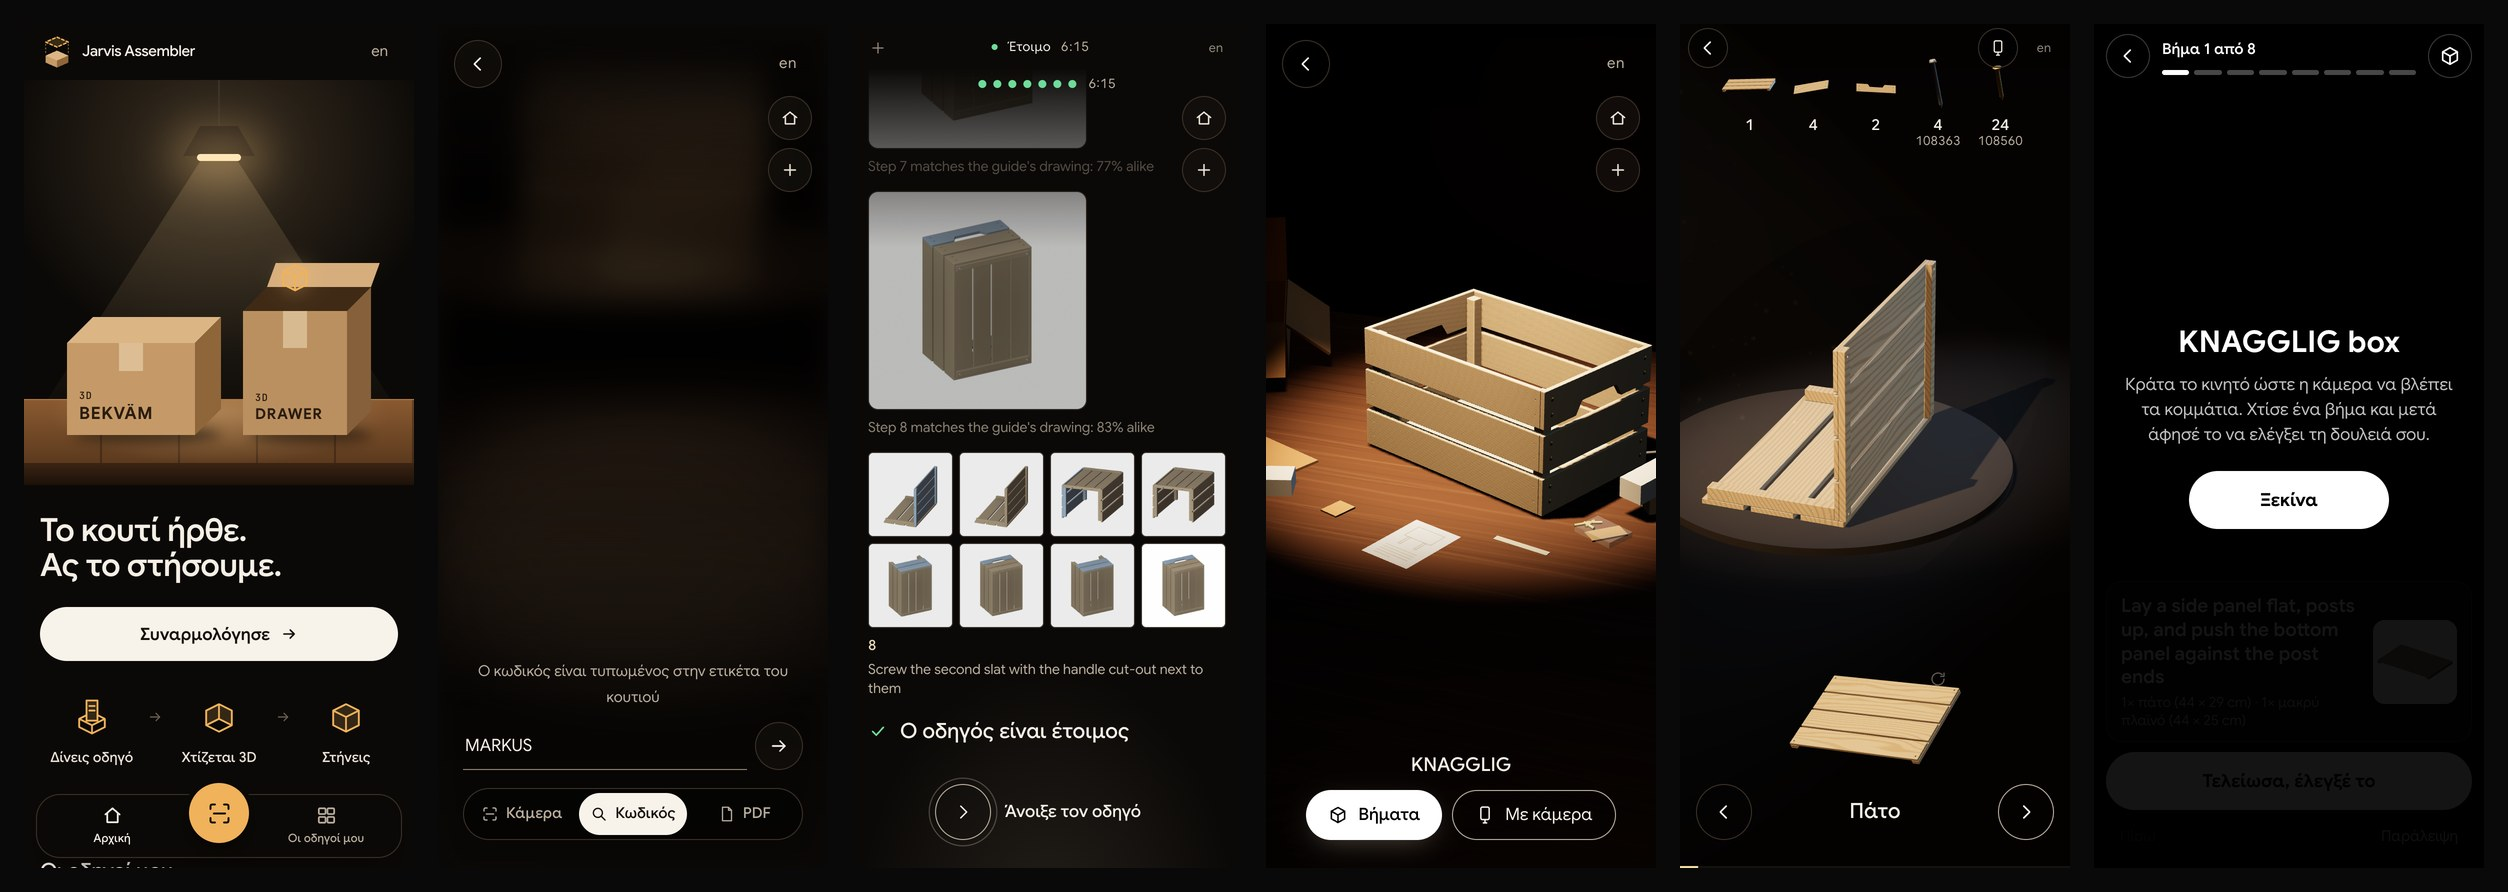
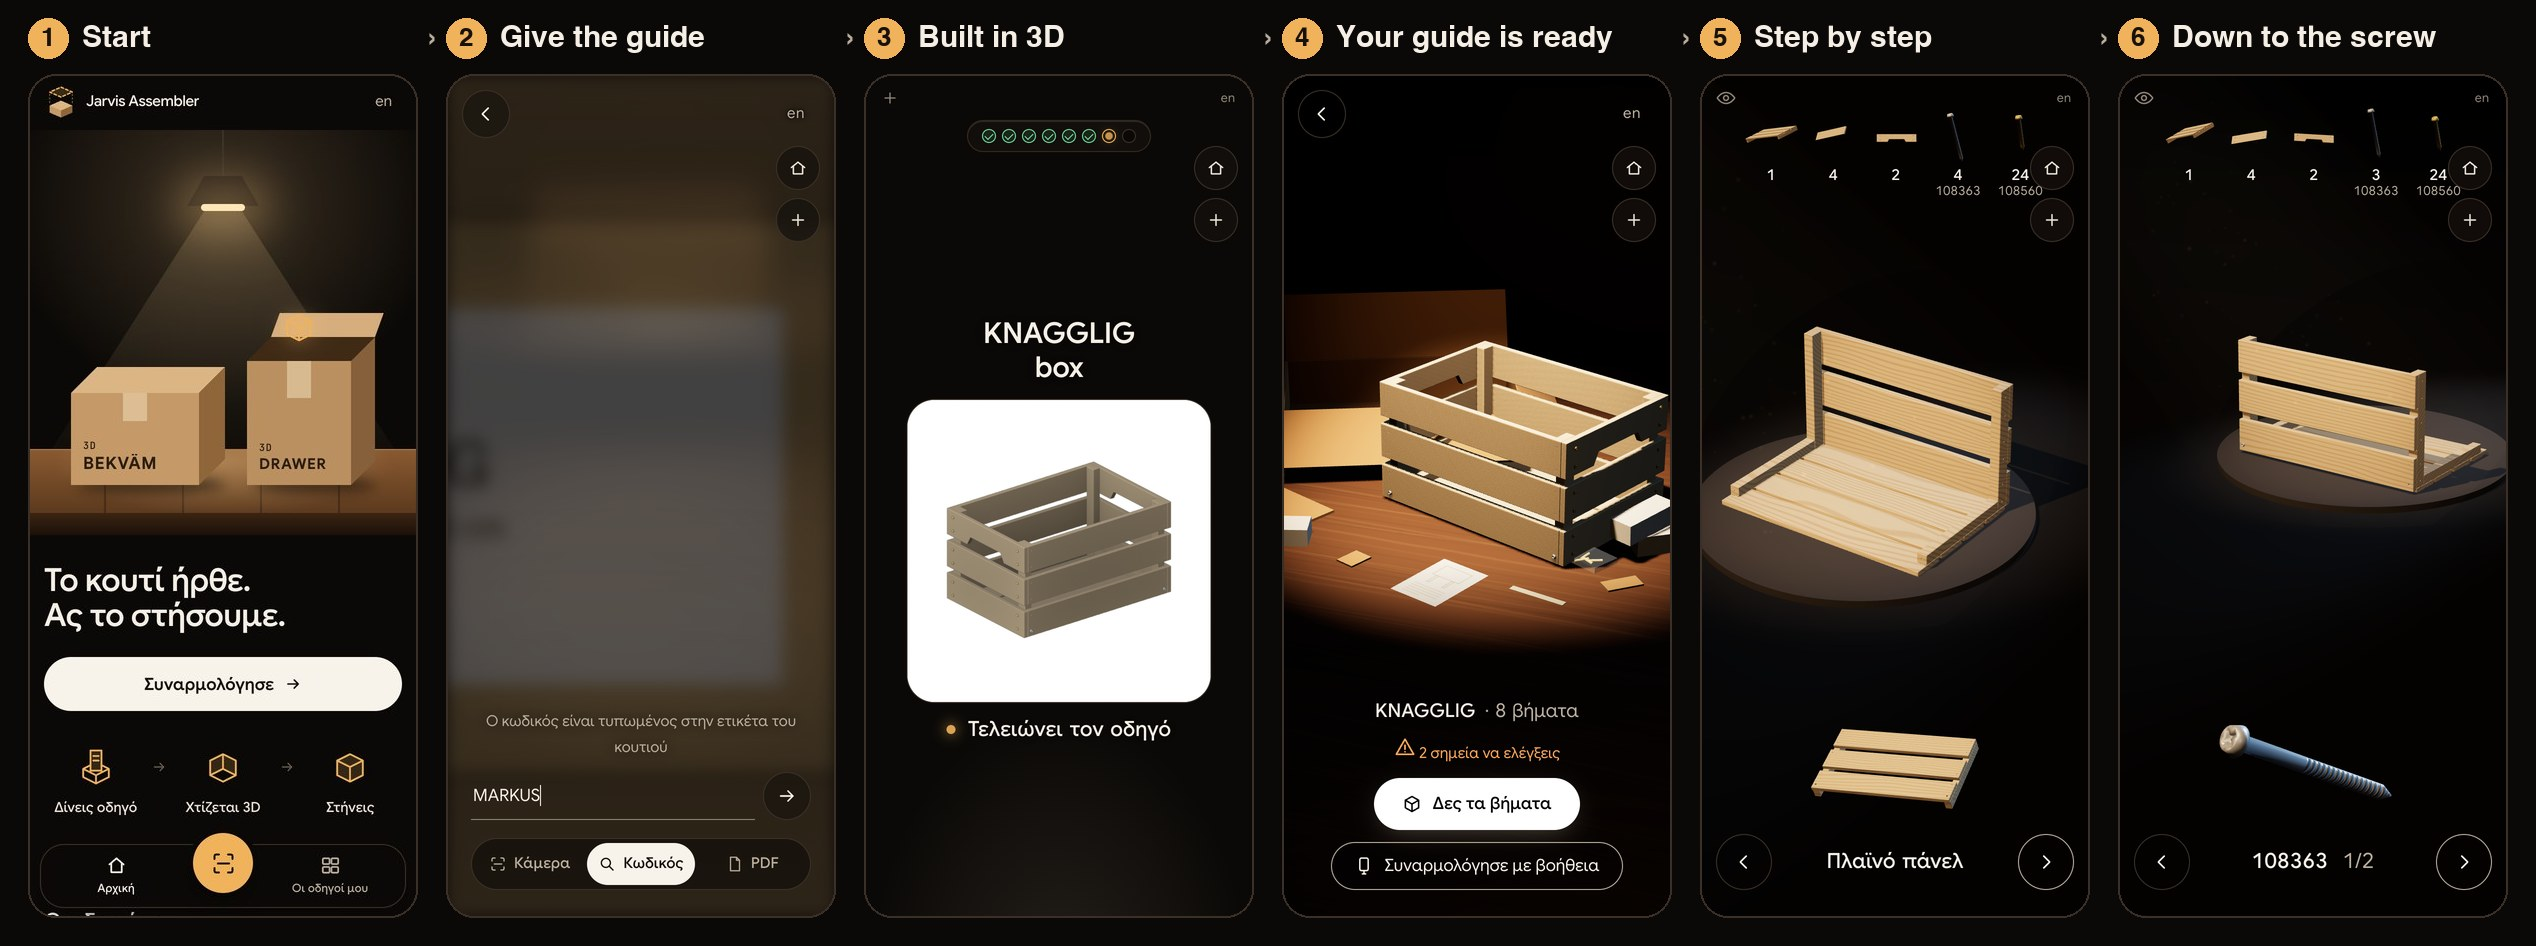
README phone strip: six numbered screens in order, from start to a single screw

diff --git a/docs/PROGRESS.md b/docs/PROGRESS.md
@@ -384,3 +384,4 @@ Append one line per update, newest at the bottom of **your own** log only: `Sat 
 - Sun 16:14 · README graphic redrawn (data owner) · at the user's request `docs/img/steps.svg` is a flow line with light running along it, not a grid of cards: steps 1 to 4 in a row, then the line splits with an "OR" into phone (5) and headset (6). "Gemini Decisions API" is now named in steps 4, 5 and 6 (`gemini-decision-1`). Seen as one still frame in headless Chrome; the movement not seen on github.com
 - Sun 16:18 · README graphic, new look (data owner) · at the user's request `docs/img/steps.svg` is drawn like a page of a paper assembly guide: cream paper, black ruled panels, big step numbers, line drawings that draw themselves, vendor logos in black. Same six steps and the same technologies as before, phone (5) and headset (6) side by side with "or". The real `ask_guide` call is open by default. Seen as a still in headless Chrome, not on github.com
 - Sun 16:19 · README: who it is for, the problem, our solution (data owner) · three short paragraphs under the URL, for items 3 to 5 of the organisers' submission list. "Warns you before the mistake" is the aim of the product; `docs/SUBMISSION.md` says a wrong part and a part the wrong way round are not yet proven on real headset frames
+- Sun 16:27 · README phone strip, numbered (data owner) · at the user's request rebuilt `docs/img/phone-flow.jpg`, which A had retaken at 16:5x (`7dd324a`): six screens with a number and a title over each (Start, Give the guide, Built in 3D, Your guide is ready, Step by step, Down to the screw). Screen 1 is A's home screen cut from A's strip; 2 to 6 are from my headless run of the KNAGGLIG guide. Dropped from A's strip: the build feed screen and the live start screen, replaced by the 3D part screen and a step with a screw

diff --git a/README.md b/README.md
@@ -17,7 +17,7 @@ You need three hours to build one drawer, because the guide is all drawings and 
 
 Give it one of four things: the code on the box, a photo of the box, the product name, or the PDF guide. An AI agent rebuilds the furniture in 3D, one move at a time, so you can see what you are building before you touch a screw. The same 3D model is what the phone and the headset use to follow your real build and check each part.
 
-![The phone flow: home, find the guide, the 3D build, the ready guide, a step, build with help](docs/img/phone-flow.jpg)
+![The phone flow in six screens: start, give the guide, built in 3D, your guide is ready, step by step, down to the screw](docs/img/phone-flow.jpg)
 
 ## How it works
 
